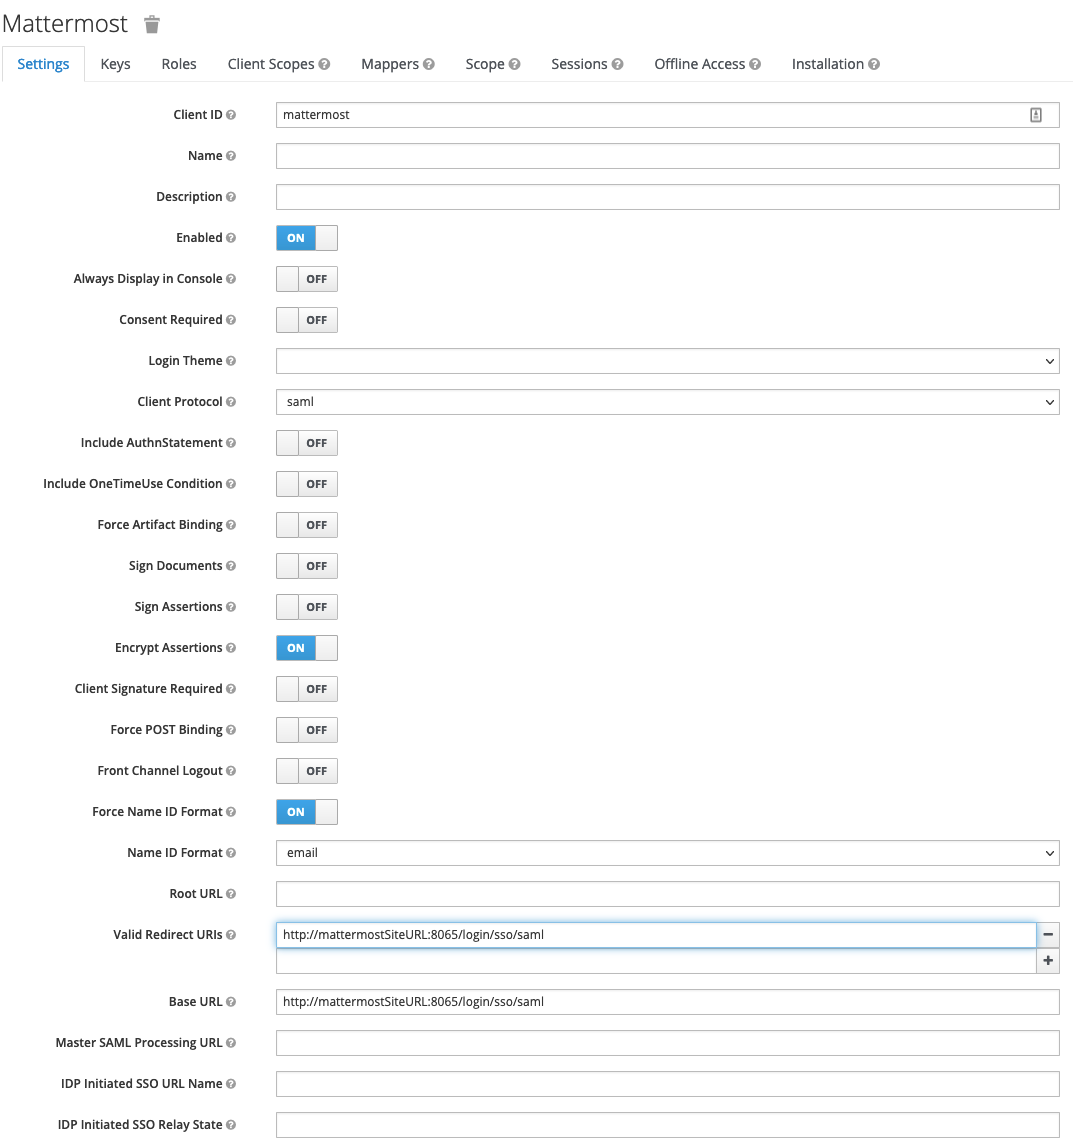
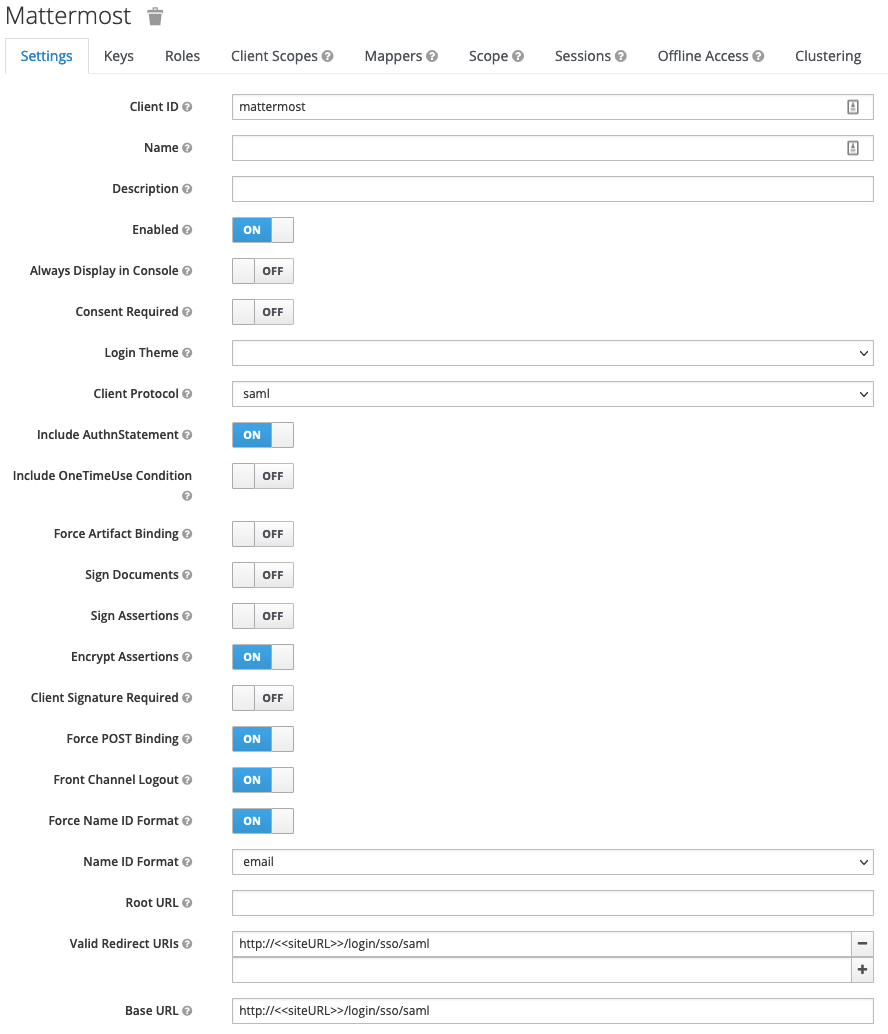
Updated a few screenshots and structure

diff --git a/source/onboard/sso-saml-keycloak.rst b/source/onboard/sso-saml-keycloak.rst
@@ -7,50 +7,43 @@ The following process provides steps to configure SAML with Keycloak for Matterm
   :backlinks: top
   :local:
 
-Pre-installation
-----------------
-
-
-1. Before configuring SAML with Keycloak, ensure you have the `XML Security Library <https://www.aleksey.com/xmlsec/download.html>`__  installed on your Mattermost instance. The XML Security Library is a part of Debian GNU/Linux.
-
-Also confirm if the ``xmlsec1-openssl`` library was successfully installed. If not, run
-    - ``apt-get install libxmlsec1-openssl`` on Ubuntu
-    - ``yum install xmlsec1-openssl`` on RHEL
-
 Set up a connection app for Mattermost SSO
 -------------------------------------------
 
-2. Sign in to Keycloak as an administrator.
+1. Sign in to Keycloak as an administrator.
 
-3. Click **Clients** then **Create** and save. You'll use this client ID in a later step.
+2. Click **Clients** then **Create** and save. You'll use this client ID in a later step.
+
     - ``Client ID`` - mattermost
     - ``Protocol`` - saml
 
-4. Edit the Mattermost client to have the below values:
+3. Edit the Mattermost client to have the below values:
+
+    - Enabled - ON
     - Encrypt Assertions - ON
     - Force Name ID Format - ON
-        - Name ID Format - ``Email``
+    - Name ID Format - ``Email``
     - Valid Redirects - ``https://<<siteURL>>/login/sso/saml``
     - Base URL - ``https://<<siteURL>>/login/sso/saml``
 
     .. image:: ../../source/images/keycloak_1_client_settings.png
 
-5. Save the client config.
+4. Save the client config.
 
-6. Navigate to **Keys** within the client config.
+5. Navigate to **Keys** within the client config.
 
-7. Click **Generate new keys**
+6. Click **Generate new keys**
 
-8.  Export the keys by clicking **Export**, using the below values, and clicking **Download**.
+7.  Export the keys by clicking **Export**, using the below values, and clicking **Download**.
 
-    - Archive Format - PKCS12
-    - Key Alias - mattermost
-    - Key Password - mattermost
-    - Store Password - mattermost
+    - Archive Format - ``PKCS12``
+    - Key Alias - ``mattermost``
+    - Key Password - ``mattermost``
+    - Store Password - ``mattermost``
 
     .. image:: ../../source/images/keycloak_2_saml_keys.png
 
-9. Add the default attributes
+8. Add the default attributes
 
     a. Within your Mattermost client click **Mappers**
     b. Click **Add Buildin**
@@ -59,37 +52,41 @@ Set up a connection app for Mattermost SSO
 
     .. image:: ../../source/images/keycloak_3_add_builtins.png
 
-10. Add the username and id attribute.
+9. Add the username and id attribute.
 
     a. With the **Mappers** section of your client, click **Create**
-    b. Set **name** to ``username``
+    b. Set **Name** to ``Username``
     c. Under Mapper Type select **User Property**
-    d. Set **property** to ``Username`` (This is case sensitive)
-    d. Set **SAML Attribute Name** to ``username``
-    e. Click **Save**.
-    f. Repeat this step and use the property of ``id`` to create the ID Attribute.
+    d. Set **Property** to ``username`` (This is case sensitive and must be lowercase)
+    e. Set **SAML Attribute Name** to ``username``
+    f. Click **Save**.
+    g. Repeat this step and use the property of ``id`` to create the ID Attribute.
 
 
     .. image:: ../../source/images/keycloak_4_create_username_attribute.png
 
-11. Get the metadata URL from keycloak
+10. Get the metadata URL from keycloak
 
     a. Within your Realm, click **Realm Settings**
     b. At the bottom of the **General** tab you should see a **SAML 2.0 Identity Provider Metadata** endpoint. Right-click and copy this URL. Store for the next step.
 
+    .. image:: ../../source/images/keycloak_9_export_metadata.png
+
 Configure SAML for Mattermost
 -----------------------------
 
-12. Start Mattermost server and sign in to Mattermost as a System Administrator. Go to **System Console > Authentication > SAML**
+11. Start Mattermost server and sign in to Mattermost as a System Administrator. Go to **System Console > Authentication > SAML**
 
-13. Set the **Identity Provider Metadata URL** to the value you copied from the step above and click **Get SAML Metadata from IdP**. The metadata import will populate fields related to your keycloak configuration.
+12. Set the **Identity Provider Metadata URL** to the value you copied from the step above and click **Get SAML Metadata from IdP**. The metadata import will populate fields related to your keycloak configuration.
 
     If you have any issues with this import, you can check the ``mattermost.log`` file for more information. You will need to turn on debug logging and try again if you do not already have debug logging enabled.
 
-14. Set the below fields:
+    .. image:: ../../source/images/keycloak_10_get_metadata.png
 
-    - **Verify Signature** : ``true``
-    - **Service Provider Login URL** : ``http://<<mattermostSiteURL>>/login/sso/saml``
+13. Set the below fields:
+
+    - **Verify Signature** : ``false``
+    - **Service Provider Login URL** : ``http://<<siteURL>>/login/sso/saml``
     - **Service Provider Identifier** : ``mattermost``
 
     The Service Provider Identifier will match the **Client ID** That you configured on the second Keycloak step.
@@ -117,7 +114,6 @@ Configure SAML for Mattermost
     .. image:: ../../source/images/keycloak_7_mattermost_request_signing.png
 
 
- 
 16. Set attributes for the SAML Assertions, which will update user information in Mattermost. Attributes for email and username are required to match the values you configured in Keycloak in steps 9 and 10. See `documentation on SAML configuration settings <http://docs.mattermost.com/administration/config-settings.html#saml-enterprise>`__ for more detail.
 
     - **Username Attribute** : ``username``
